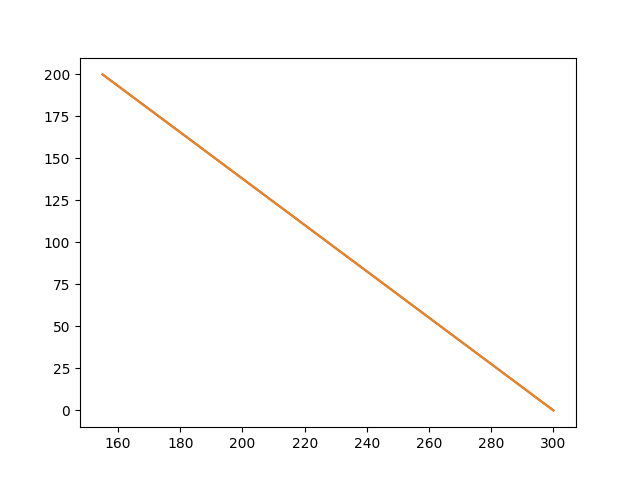
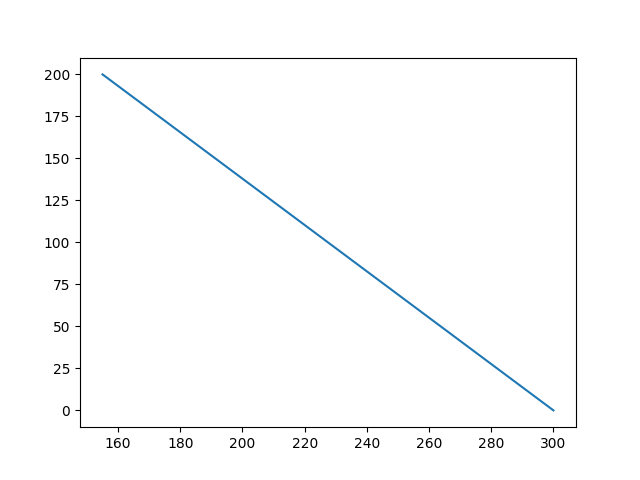
Add animation

diff --git a/manipurator.py b/manipurator.py
@@ -2,11 +2,19 @@ import math
 import numpy as np
 import matplotlib.pyplot as plt
 
+
 class Manipurator():
     def __init__(self, l1, l2, d0=0):
         self.l1 = l1
         self.l2 = l2
         self.d0 = d0
+
+    def forwardKinematics(self, theta1, theta2):
+        x1 = self.l1 * math.cos(theta1)
+        y1 = self.l1 * math.sin(theta1)
+        x2 = x1 + self.l2 * math.cos(theta2)
+        y2 = y1 + self.l2 * math.sin(theta2)
+        return x2, y2
 
     def inverseKinematics(self, x, y, eps=1e-10):
         tmp = (self.l1**2 + x**2 + (y - self.d0)**2 - self.l2**2) / \
@@ -21,6 +29,7 @@ class Manipurator():
 
         return theta1, theta2
 
+
 class PathPlanner():
     def __init__(self, acc, vmax, dt=0.01):
         self.acc = acc
@@ -29,7 +38,7 @@ class PathPlanner():
 
     def distance(self, x1, y1, x2, y2):
         return math.sqrt((x2 - x1)**2 + (y2 - y1)**2)
-        
+
     def angle(self, x1, y1, x2, y2):
         return math.atan2(y2 - y1, x2 - x1)
 
@@ -47,14 +56,16 @@ class PathPlanner():
         tList, xList, yList, vList = [0], [x1], [y1], [0]
         while diff > 0.1:
             t += self.dt
-            if t > 2: break
+            if t > 2:
+                break
             print(diff0 - distance)
 
             if diff0 - distance < self.vmax ** 2 / self.acc / 2:
                 v -= self.acc * self.dt
             elif v < self.vmax:
                 v += self.acc * self.dt
-            if v < 0: break
+            if v < 0:
+                break
             v = np.clip(v, 0, self.vmax)
 
             x += v * self.dt * math.cos(angle)
@@ -71,15 +82,20 @@ class PathPlanner():
 
         return {'t': tList, 'x': xList, 'y': yList, 'v': vList}
 
+
 if __name__ == '__main__':
     manipurator = Manipurator(150, 150)
     vmax = 308.7904831758910
     acc = vmax / 0.2
     path = PathPlanner(acc, vmax).planning(300, 0, 155, 200)
+    # path = PathPlanner(acc, vmax).planning(100, 50, 300, 150)
 
     theta1List, theta2List = [], []
     for i in range(len(path['t'])):
-        theta1, theta2 = manipurator.inverseKinematics(path['x'][i], path['y'][i])
+        theta1, theta2 = manipurator.inverseKinematics(
+            path['x'][i], path['y'][i])
+        x, y = manipurator.forwardKinematics(theta1, theta2)
+        print(x, y)
         theta1List.append(math.degrees(theta1))
         theta2List.append(math.degrees(theta2))
 
@@ -89,7 +105,7 @@ if __name__ == '__main__':
     np.savetxt('theta2.csv', theta2, delimiter=',', fmt='%04f')
 
     plt.figure()
-    plt.plot([300, 155], [0, 200])
+    # plt.plot([300, 155], [0, 200])
     plt.plot(path['x'], path['y'])
     plt.savefig('path.png')
 

diff --git a/animation.py b/animation.py
@@ -1,0 +1,76 @@
+import math
+import numpy as np
+import matplotlib.pyplot as plt
+import matplotlib.animation as animation
+
+
+class AnimationMaker():
+    def __init__(self, theta1file, theta2file, l1, l2):
+        self.loadData(theta1file, theta2file)
+
+        self.l1 = l1
+        self.l2 = l2
+
+        self.trajectory_x = []
+        self.trajectory_y = []
+
+        self.figure()
+
+    def loadData(self, theta1file, theta2file):
+        theta1 = np.loadtxt(theta1file, delimiter=',', unpack=True)
+        theta2 = np.loadtxt(theta2file, delimiter=',', unpack=True)
+        self.time = theta1[0]
+        self.theta1 = theta1[1]
+        self.theta2 = theta2[1]
+
+    def figure(self):
+        self.fig, ax = plt.subplots(figsize=(10, 10))
+
+        self.line_trajectory, = ax.plot(
+            [], [], color='tab:blue', label='trajectory')
+        self.line_l1, = ax.plot(
+            [], [], color='tab:gray', label='l1', linewidth=3)
+        self.line_l2, = ax.plot(
+            [], [], color='tab:gray', label='l2', linewidth=3)
+
+        ax.set_xlabel('x [mm]')
+        ax.set_ylabel('y [mm]')
+        maxlen = self.l1 + self.l2 + 10
+        ax.set_xlim(-maxlen, maxlen)
+        ax.set_ylim(-maxlen, maxlen)
+        ax.set_aspect('equal')
+        # ax.legend(loc='lower left')
+        plt.subplots_adjust(left=0.08, right=0.97, bottom=0.04, top=0.97)
+
+    def _update(self, i):
+        theta1 = math.radians(self.theta1[i])
+        theta2 = math.radians(self.theta2[i])
+
+        x1 = self.l1 * math.cos(theta1)
+        y1 = self.l1 * math.sin(theta1)
+        x2 = x1 + self.l2 * math.cos(theta2)
+        y2 = y1 + self.l2 * math.sin(theta2)
+
+        self.trajectory_x.append(x2)
+        self.trajectory_y.append(y2)
+
+        self.line_l1.set_data([0, x1], [0, y1])
+        self.line_l2.set_data([x1, x2], [y1, y2])
+        self.line_trajectory.set_data(self.trajectory_x, self.trajectory_y)
+
+        plt.title('t = {} [s], (x, y) = ({:3.0f}, {:3.0f})'.format(
+            i / len(self.time), x2, y2))
+
+    def makeAnimation(self):
+        return animation.FuncAnimation(self.fig, self._update,
+                                       interval=100, frames=len(self.time))
+
+
+if __name__ == '__main__':
+    # animationMaker = AnimationMaker('theta1example.csv', 'theta2example.csv', 150, 150)
+    animationMaker = AnimationMaker('theta1.csv', 'theta2.csv', 150, 150)
+    ani = animationMaker.makeAnimation()
+    ani.save('animation.gif', writer='pillow')
+
+    plt.plot(animationMaker.trajectory_x, animationMaker.trajectory_y)
+    plt.savefig('a.png')
